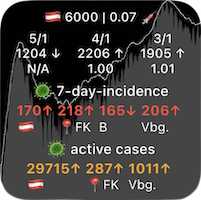
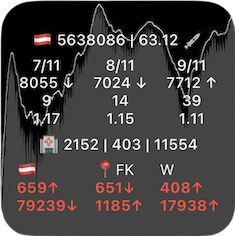
doc: update readme

diff --git a/README.md b/README.md
@@ -1,7 +1,7 @@
 ![](doc/widget_small.png)![](doc/widget_medium.png)
 
 # Description
-The COVID-19 widget shows in the first line the sum of the vaccinated people, in the second line the last three days of new cases and the associated R-value for Austria. The incidence for Austria, the district where your device is located and the districts specified by the user are displayed on the third line. The active cases in Austria are displayed in the fourth line. Furthermore, the active cases (narrow white line) and the daily new cases (gray filled area) are shown in the background. The widget supports offline caching (local and iCloud).
+The COVID-19 widget shows in the first line the sum of the vaccinated people, in the second line the last three days of new cases, the daily deaths and the associated R-value for Austria. The hospitalization, ICU and the sum of deaths are shown below. The active cases in Austria are displayed on the second line from the bottom. The incidence for Austria, the district where your device is located and the districts specified by the user are displayed above. Furthermore, the active cases (narrow white line) and the daily new cases (gray filled area) are shown in the background. The widget supports offline caching (local and iCloud).
 ![Screenshot](doc/widget_description.png)
 
 # Setup
